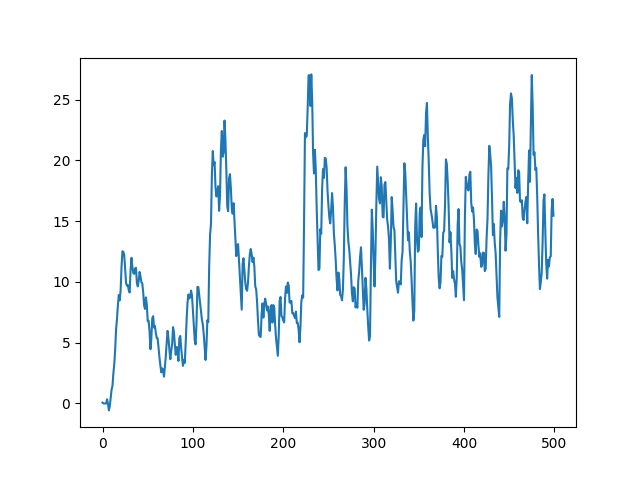
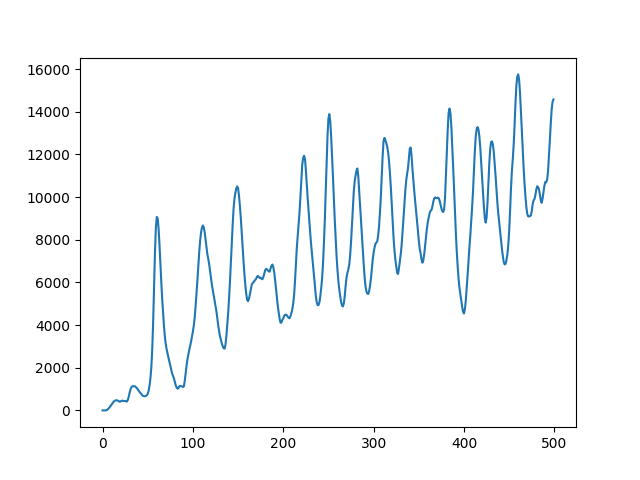
Setup tests1

diff --git a/testShapeMultiInput.py b/testShapeMultiInput.py
@@ -21,8 +21,8 @@ min = 0
 network = forceNetworkMulti(dt=1)  # Instantiates network.
 
 X = nodes.Input(30, traces=True)  # Input layer.
-Y = nodes.LIFNodes(500, traces=True,  tc_decay = 100, tc_trace = 5)  # Layer of LIF neurons. 
-Z = nodes.LIFNodes(200)  # Layer of LIF neurons.
+Y = nodes.LIFNodes(12000, traces=True,  tc_decay = 100, tc_trace = 5)  # Layer of LIF neurons. 
+Z = nodes.LIFNodes(9800)  # Layer of LIF neurons.
 F = nodes.Input(k * 30,  traces=True)  # Input layer.
 
 
@@ -38,9 +38,9 @@ C6 = topology.Connection(source=F, target=Y, w=wFeed)  # Connection from X to Y.
 tabTensor = torch.full((Y.n, Y.n), 0.01)
 
 C2 = topology.Connection(source=Y, target=Y, w=torch.bernoulli(tabTensor)* torch.rand((Y.n, Y.n)))  # Connection from X to Y.
-tabTensor = torch.full((Y.n, Z.n), 0.1)
+tabTensor = torch.full((Y.n, Z.n), 0.01)
 C3 = topology.Connection(source=Y, target=Z, w=torch.bernoulli(tabTensor)* torch.rand((Y.n, Z.n)))
-tabTensor = torch.full((Z.n, Y.n), 0.1)
+tabTensor = torch.full((Z.n, Y.n), 0.01)
 C4 = topology.Connection(source=Z, target=Y, w= -torch.bernoulli(tabTensor) * torch.rand((Z.n, Y.n))) 
 tabTensor = torch.full((Z.n, Z.n), 0.01)
 C5 = topology.Connection(source=Z, target=Z, w= -  torch.bernoulli(tabTensor) * torch.rand((Z.n, Z.n)))  # Connection from X to Y.
@@ -138,8 +138,3 @@ for i, layer in enumerate(spikes):
 plt.tight_layout()
 plt.savefig("shapeTest.jpg")
 
-t = np.arange(0.0, time, 1)
-s = decoDataset[0][:time]
-fig, ax = plt.subplots()
-ax.plot(t, s)
-fig.savefig("plotDeco.png")

diff --git a/custom/forceNetworkMulti.py b/custom/forceNetworkMulti.py
@@ -28,6 +28,12 @@ def encodingOneValue(data, ymax, ymin, m, sca):
                 spikes.append(0)    
     return spikes
 
+def MSECalculation(deco, pred):
+    total = 0
+    for i in range(len(pred)):
+        total += (pred[i] - deco[i]) ** 2
+    return(total/len(deco))
+
 class forceNetworkMulti(Network):
     
 
@@ -267,4 +273,16 @@ class forceNetworkMulti(Network):
         ax.plot(t, s)
         fig.savefig("plotPred.png")
 
-    
+        t = np.arange(0.0, time, 1)
+        s = decoData[:time]
+        fig, ax = plt.subplots()
+        ax.plot(t, s)
+        fig.savefig("plotDeco.png")
+        
+        s = torch.nn.functional.normalize(torch.Tensor(plotValues), p=2, dim = 0)
+        s2 = torch.nn.functional.normalize(torch.Tensor(decoData[:time]), p=2, dim = 0)
+        fig, ax = plt.subplots()
+        ax.plot(t, s2)
+        ax.plot(t, s)
+        fig.savefig("plotNormComparison.png")
+        print("MSE DE FIN= " + str(MSECalculation(s2, s)))
